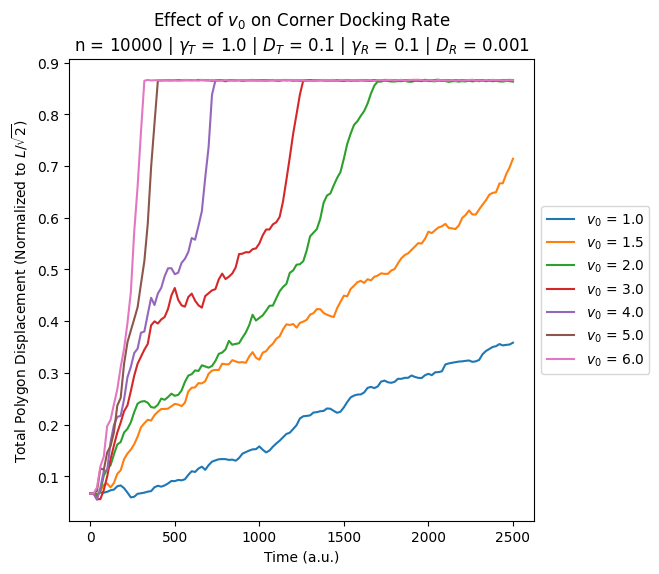
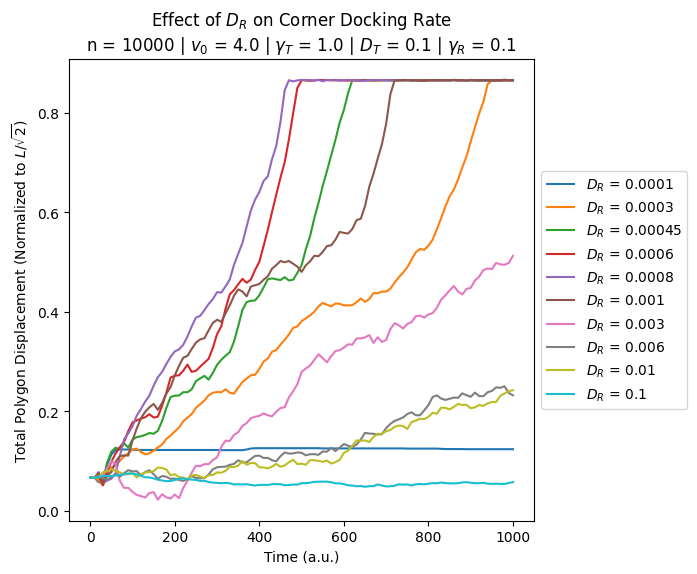
D_R parameter scan

diff --git a/src/run_sim.py b/src/run_sim.py
@@ -395,34 +395,34 @@ def main():
     angle_hist_fig, angle_hist_ax = plt.subplots(figsize=(6,6))
     com_hist_fig, com_hist_ax = plt.subplots(figsize=(6,6))
 
-    for v0 in [1.,1.5,2.,3.,4.,5.,6.,]:
+    for rotation_diffusion in [1e-4,3e-4,4.5e-4,6e-4,8e-4,1e-3,3e-3,6e-3,1e-2,1e-1]:
         sim_params = {
             "dt": 0.01,
             "num_particles": 10000,
-            "total_time": 2500.,
+            "total_time": 1000.,
             "do_animation": True,
             "return_history": True,
-            "v0": v0,
+            "rotation_diffusion": rotation_diffusion,
             "use_jit": True,
-            "timesteps_per_frame": 2000
+            "timesteps_per_frame": 1000
             }
 
         r_history, theta_history, poly_history, com_history, angle_history, _ = run_sim(r_0, theta_0, [glu], [c], sim_params, hell=False)
 
         times = jnp.linspace(0,sim_params["total_time"],len(r_history))
 
-        param_name = r"$v_0$"
-        scan_param_title = param_name + f" = {sim_params['v0']}"
+        param_name = r"$D_R$"
+        scan_param_title = param_name + f" = {sim_params['rotation_diffusion']}"
 
-        angle_hist_ax.plot(times,jnp.array(angle_history[0]),label=scan_param_title)
+        angle_hist_ax.set_title(f"Effect of {param_name} on polygon rotation\n"+get_parameter_report(param_name))
         angle_hist_ax.set_xlabel("Time (a.u.)")
         angle_hist_ax.set_ylabel("Polygon Angle (rad)")
-        angle_hist_ax.set_title(f"Effect of {param_name} on polygon rotation")
-        angle_hist_ax.legend()
-        angle_hist_fig.savefig(f"{PROJECT_DIR}/plots/angle_history.png")
+        angle_hist_ax.plot(times,jnp.array(angle_history[0]),label=scan_param_title)
+        angle_hist_ax.legend(loc='center left', bbox_to_anchor=(1.0, 0.5))
+        angle_hist_fig.savefig(f"{PROJECT_DIR}/plots/angle_history.png",bbox_inches="tight")
 
         max_displacement = DEFAULT_BOX_SIZE/jnp.sqrt(2)
-        com_hist_ax.set_title(f"Effect of {param_name} on Corner Docking Rate\n"+get_parameter_report())
+        com_hist_ax.set_title(f"Effect of {param_name} on Corner Docking Rate\n"+get_parameter_report(param_name))
         com_hist_ax.set_xlabel("Time (a.u.)")
         com_hist_ax.set_ylabel(r"Total Polygon Displacement (Normalized to $L/\sqrt{2}$)")
         com_hist_ax.plot(times,jnp.linalg.norm(jnp.array(com_history[0])/max_displacement,axis=1),label=scan_param_title)

diff --git a/src/visualization.py b/src/visualization.py
@@ -94,9 +94,10 @@ def animate_particles(
     images = [Image.open(io.BytesIO(frame)) for frame in frames]
     images[0].save(gif_filename, save_all=True, append_images=images[1:], loop=0, duration=1000/DEFAULT_GIF_FPS)
 
-def get_parameter_report():
-    excluded_params = [1,6,7]
+def get_parameter_report(scan_param):
+    excluded_params = [6,7]
     param_names = ["n",r"$v_0$",r"$\gamma_T$",r"$D_T$",r"$\gamma_R$",r"$D_R$",r"$\omega$",r"$\lambda$"]
+    excluded_params.append(param_names.index(scan_param))
     param_vals = [
         DEFAULT_NUM_PARTICLES,
         DEFAULT_V0,

diff --git a/src/constants.py b/src/constants.py
@@ -5,7 +5,7 @@ DEFAULT_DT = 0.01
 DEFAULT_TOTAL_TIME = 1000.
 DEFAULT_BOX_SIZE = 100.
 DEFAULT_NUM_PARTICLES = 10000
-DEFAULT_V0 = 1.
+DEFAULT_V0 = 4.
 DEFAULT_TRANSLATION_GAMMA = 1.
 DEFAULT_TRANSLATION_DIFFUSION = 0.1
 DEFAULT_ROTATION_GAMMA = 0.1
